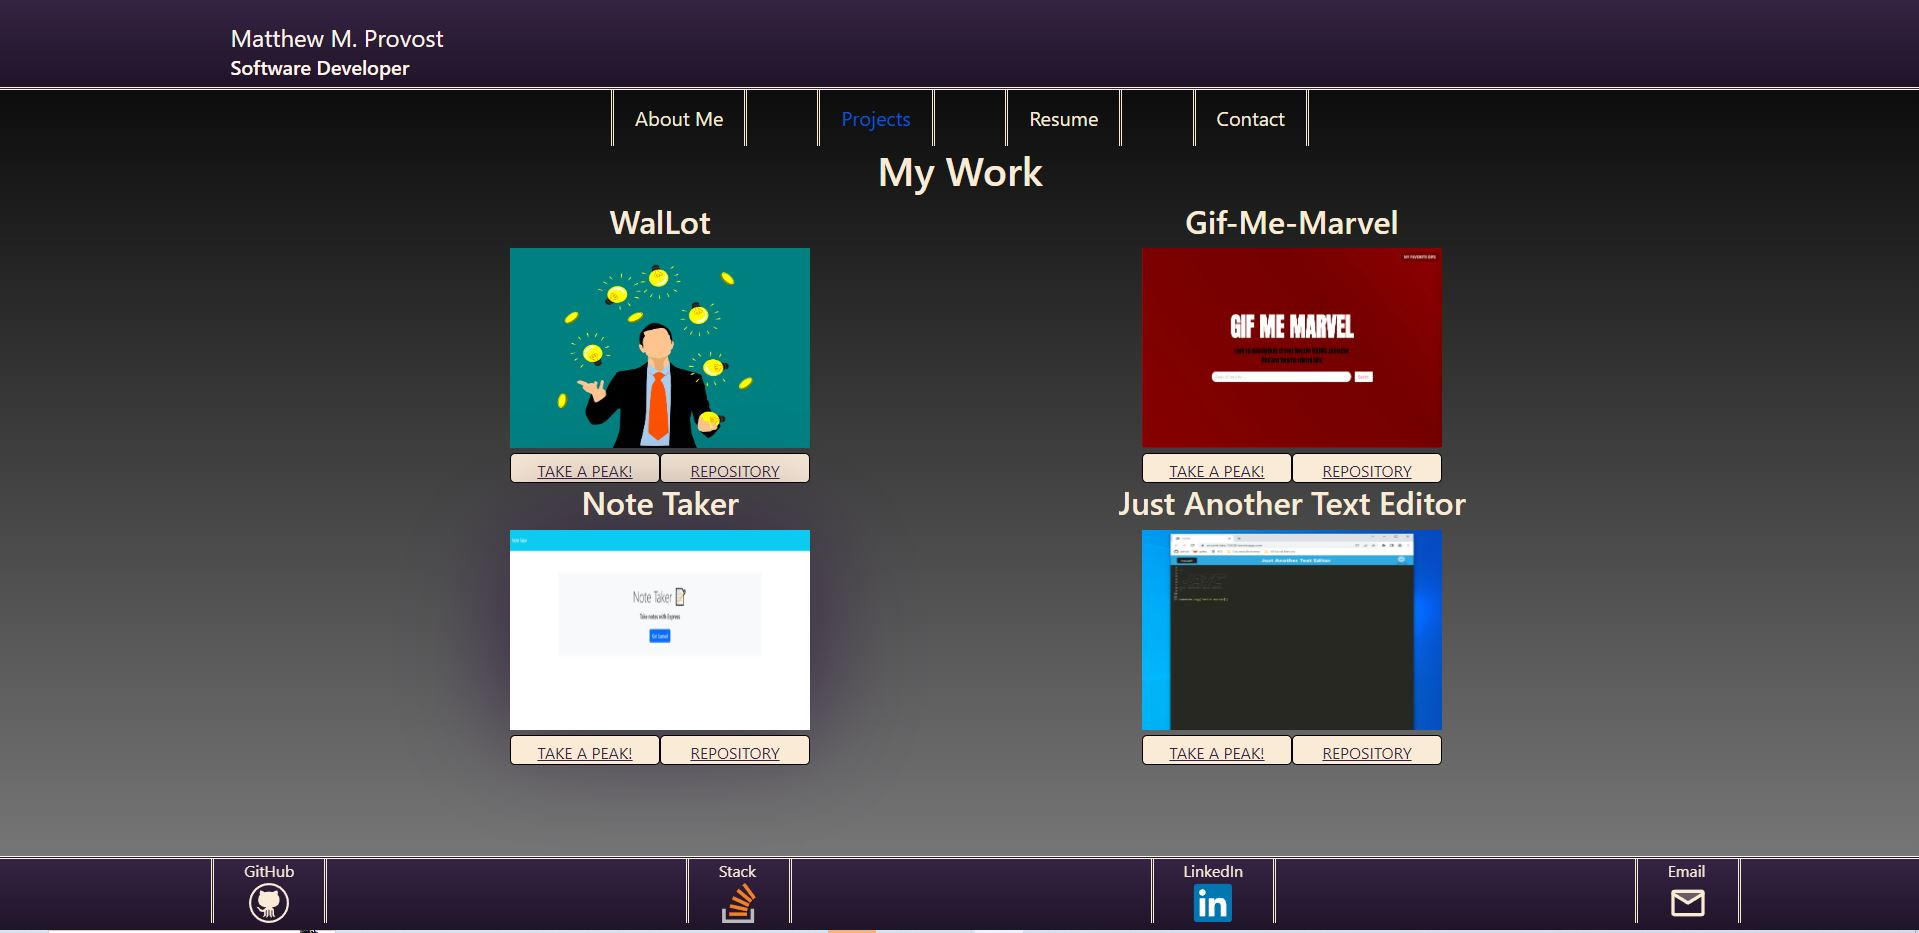
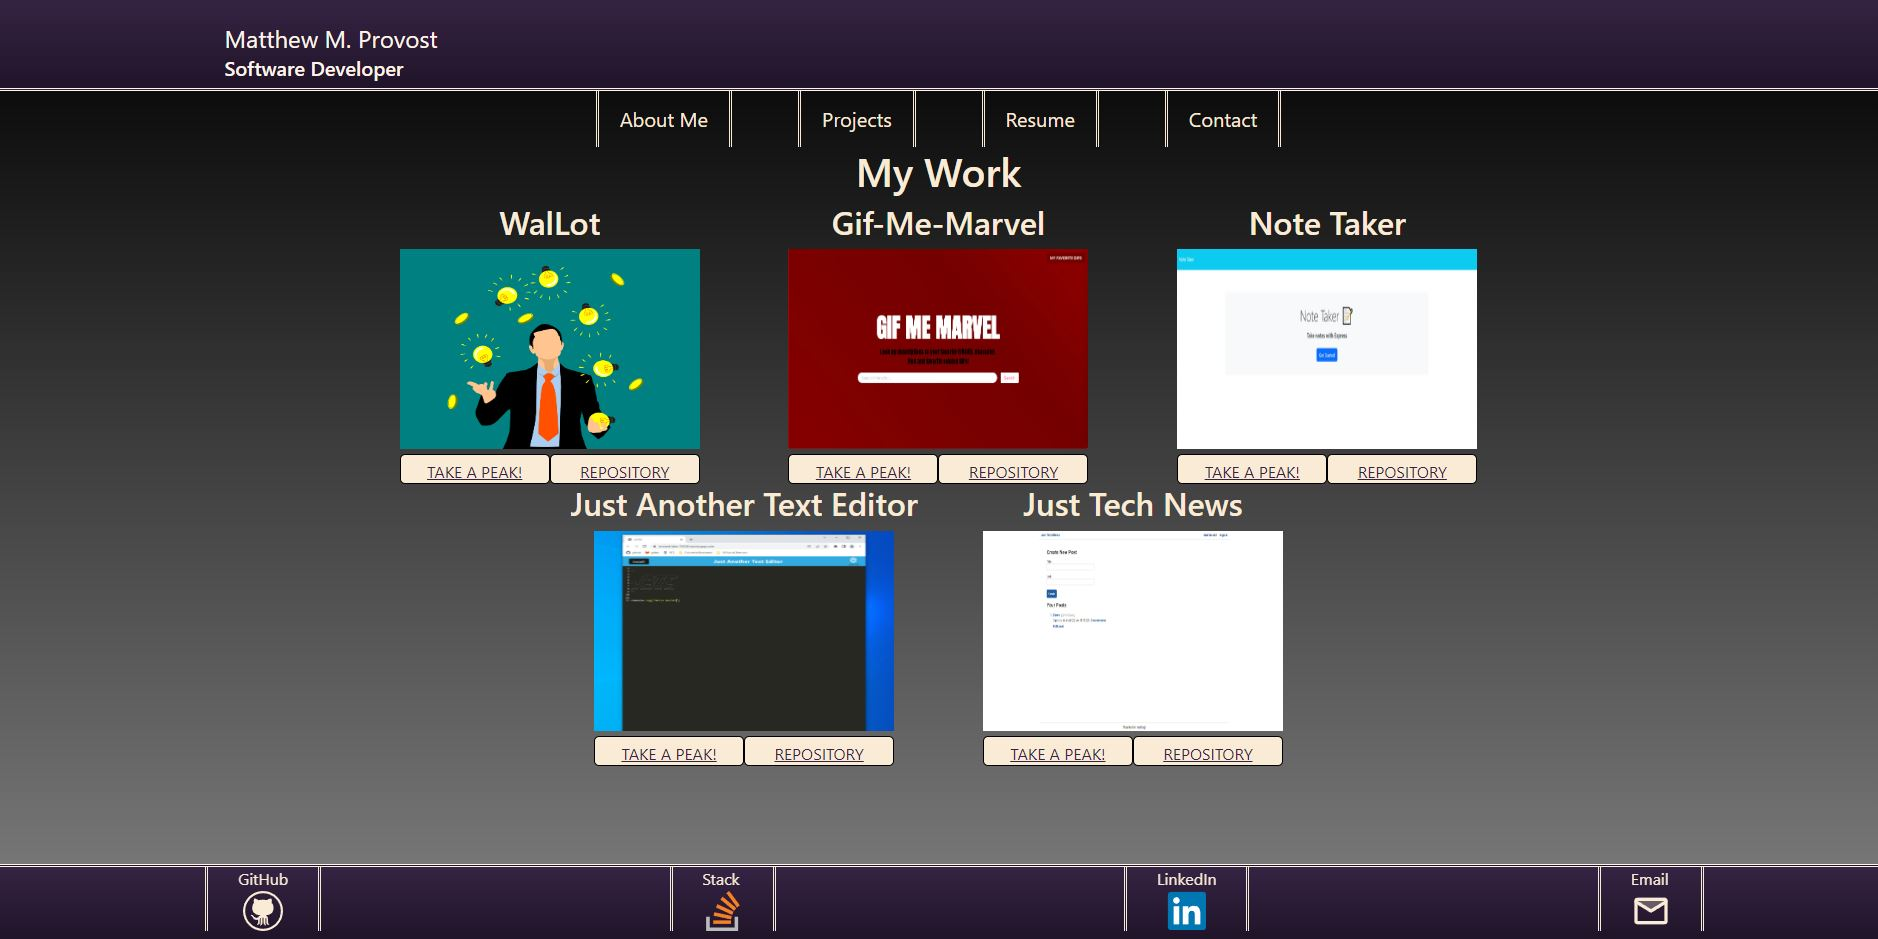
increased padding for project list items to 15px for both top and bottom for better spacing

Changed region(s): [[0.0, 0.0311, 1.0, 0.8392], [0.0, 0.9014, 1.0, 1.0]]

diff --git a/src/components/Style/Projects.css b/src/components/Style/Projects.css
@@ -25,7 +25,7 @@
     width: 30%;
     margin-left: auto;
     margin-right: auto;
-    padding: 0;
+    padding: 15px 0 15px 0;
 }
 
 .btn-container {
